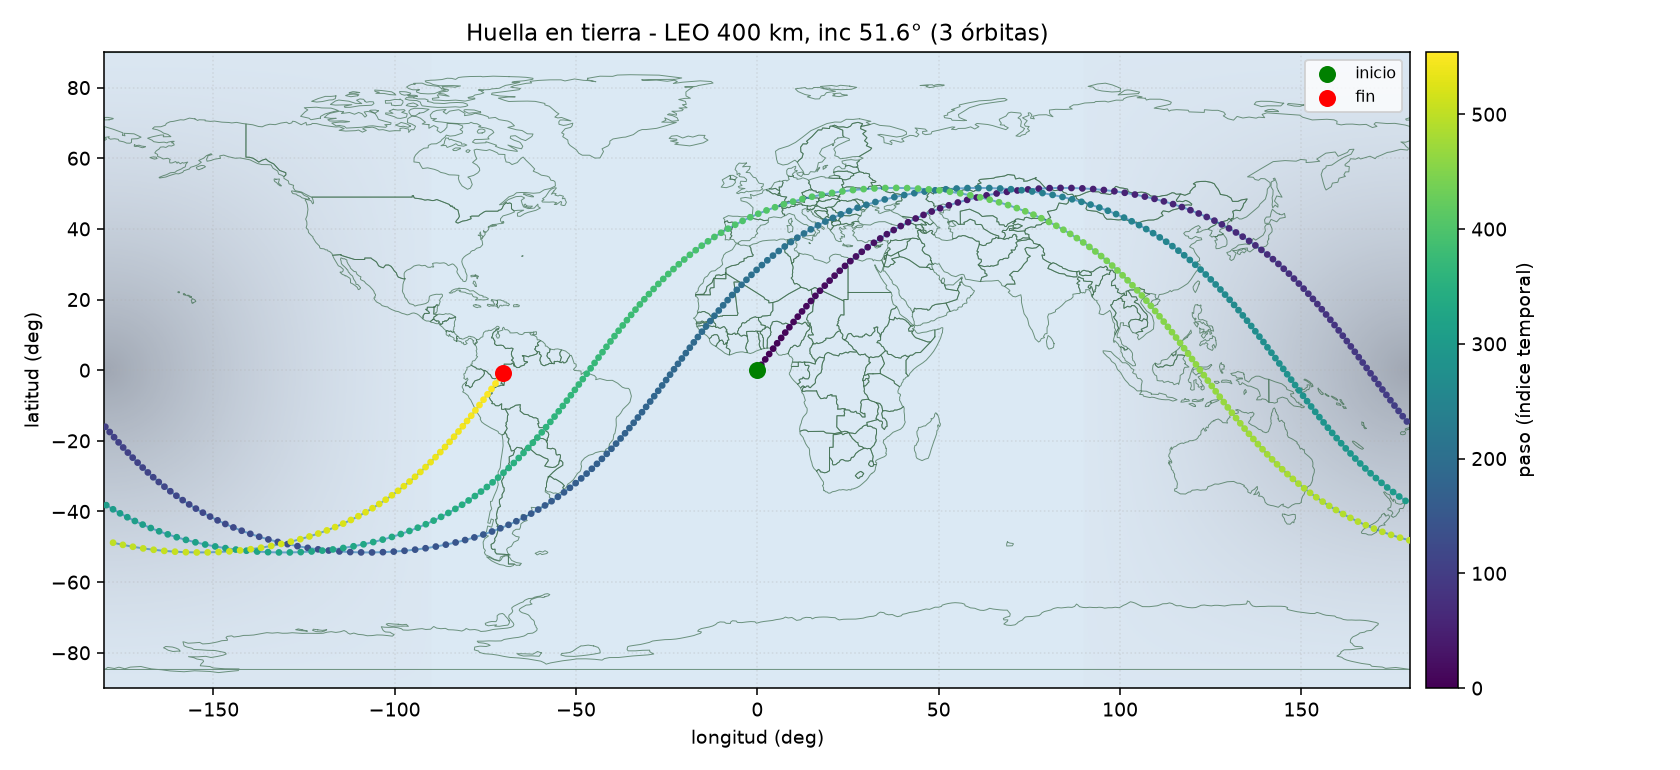
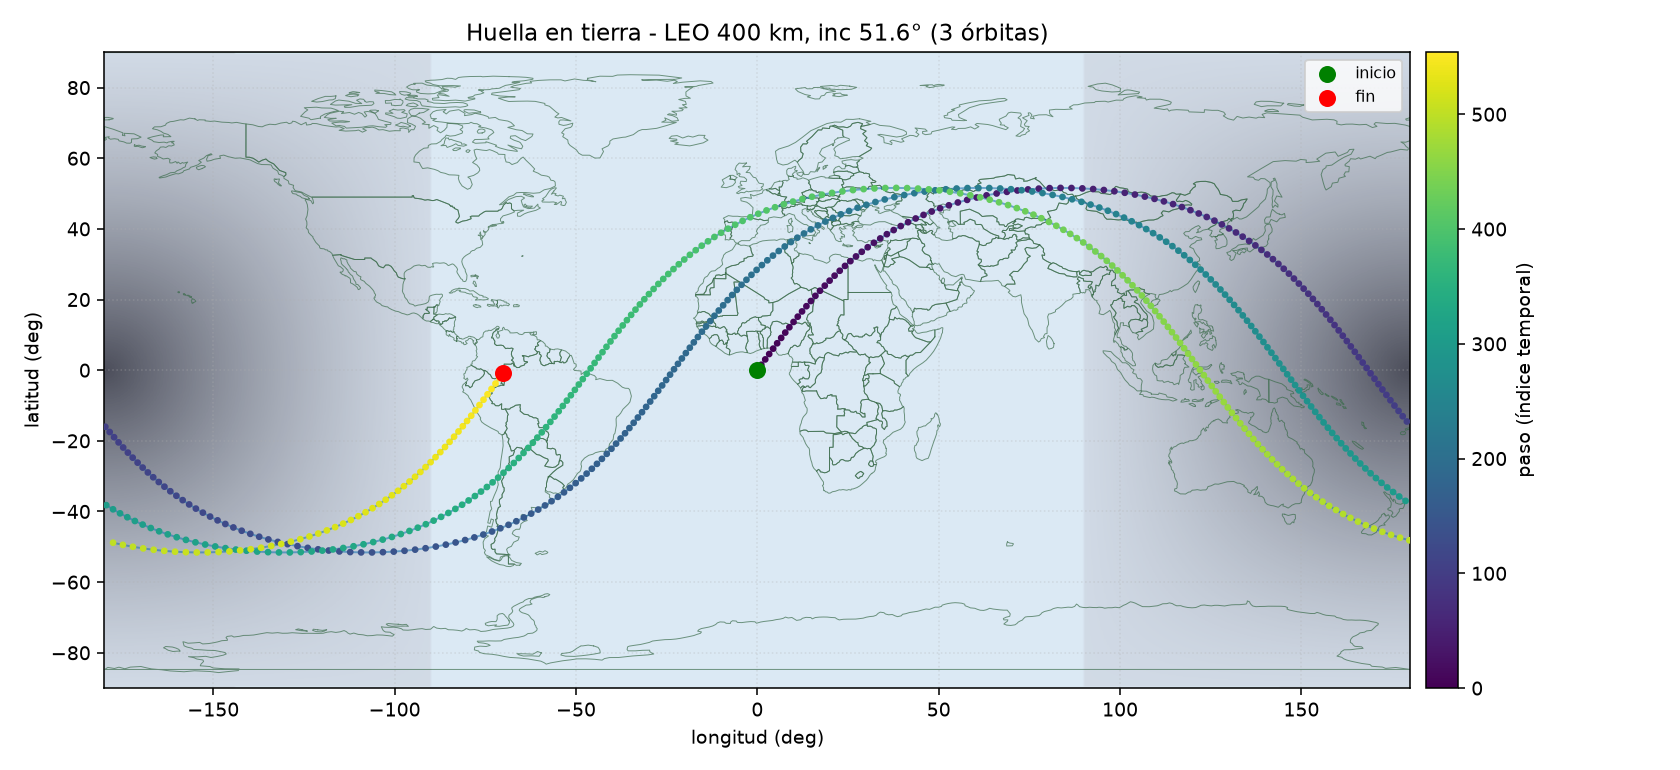
Increase day/night contrast (stronger gradient and overlay opacity)

Changed region(s): [[0.0619, 0.1558, 0.2167, 0.8104], [0.681, 0.1558, 0.8357, 0.8104]]

diff --git a/examples/output/ground_track.html b/examples/output/ground_track.html
@@ -44,7 +44,7 @@
     maxZoom: 8, attribution: 'Tiles &copy; Esri, DeLorme, NAVTEQ'
   }).addTo(map);
   // Sombreado día/noche (degradado)
-  L.imageOverlay('daynight.png', [[-90, -180], [90, 180]], {opacity: 0.55, interactive: false}).addTo(map);
+  L.imageOverlay('daynight.png', [[-90, -180], [90, 180]], {opacity: 0.85, interactive: false}).addTo(map);
   const group = L.featureGroup().addTo(map);
   segments.forEach(seg => {
     if (seg.length < 2) return;

diff --git a/src/orbitas_rt/viz.py b/src/orbitas_rt/viz.py
@@ -112,8 +112,8 @@ def ground_track(lat_deg, lon_deg, title, path, color="#1f77b4", show_earth=True
         zenith = np.arccos(cosz)
         night = zenith > (np.pi / 2)
         darkness = np.clip((zenith - np.pi / 2) / (np.pi / 2), 0.0, 1.0)
-        gray = 0.85 - 0.45 * darkness
-        alpha = np.where(night, 0.12 + 0.38 * darkness, 0.0)
+        gray = 0.75 - 0.55 * darkness
+        alpha = np.where(night, 0.35 + 0.50 * darkness, 0.0)
         rgba = np.zeros((N, N, 4))
         rgba[..., 0] = gray
         rgba[..., 1] = gray
@@ -197,8 +197,8 @@ def ground_track_ortho(lat_deg, lon_deg, title, path, color="#1f77b4",
         zenith = np.arccos(cosz)
         night = zenith > (np.pi / 2)
         darkness = np.clip((zenith - np.pi / 2) / (np.pi / 2), 0.0, 1.0)
-        gray = 0.85 - 0.45 * darkness
-        alpha = np.where(night, 0.12 + 0.38 * darkness, 0.0)
+        gray = 0.75 - 0.55 * darkness
+        alpha = np.where(night, 0.35 + 0.50 * darkness, 0.0)
         rgba = np.zeros((N, N, 4))
         rgba[..., 0] = gray
         rgba[..., 1] = gray

diff --git a/examples/run_web_ground_track.py b/examples/run_web_ground_track.py
@@ -55,8 +55,8 @@ cosz2 = np.clip(cosz2, -1.0, 1.0)
 zenith2 = np.arccos(cosz2)
 night2 = zenith2 > (np.pi / 2)
 darkness2 = np.clip((zenith2 - np.pi / 2) / (np.pi / 2), 0.0, 1.0)
-gray2 = 0.85 - 0.45 * darkness2
-alpha2 = np.where(night2, 0.12 + 0.38 * darkness2, 0.0)
+gray2 = 0.75 - 0.55 * darkness2
+alpha2 = np.where(night2, 0.35 + 0.50 * darkness2, 0.0)
 rgba2 = np.zeros((N // 2, N, 4))
 rgba2[..., 0] = gray2
 rgba2[..., 1] = gray2
@@ -115,7 +115,7 @@ html = """<!DOCTYPE html>
     maxZoom: 8, attribution: 'Tiles &copy; Esri, DeLorme, NAVTEQ'
   }).addTo(map);
   // Sombreado día/noche (degradado)
-  L.imageOverlay('daynight.png', [[-90, -180], [90, 180]], {opacity: 0.55, interactive: false}).addTo(map);
+  L.imageOverlay('daynight.png', [[-90, -180], [90, 180]], {opacity: 0.85, interactive: false}).addTo(map);
   const group = L.featureGroup().addTo(map);
   segments.forEach(seg => {
     if (seg.length < 2) return;
